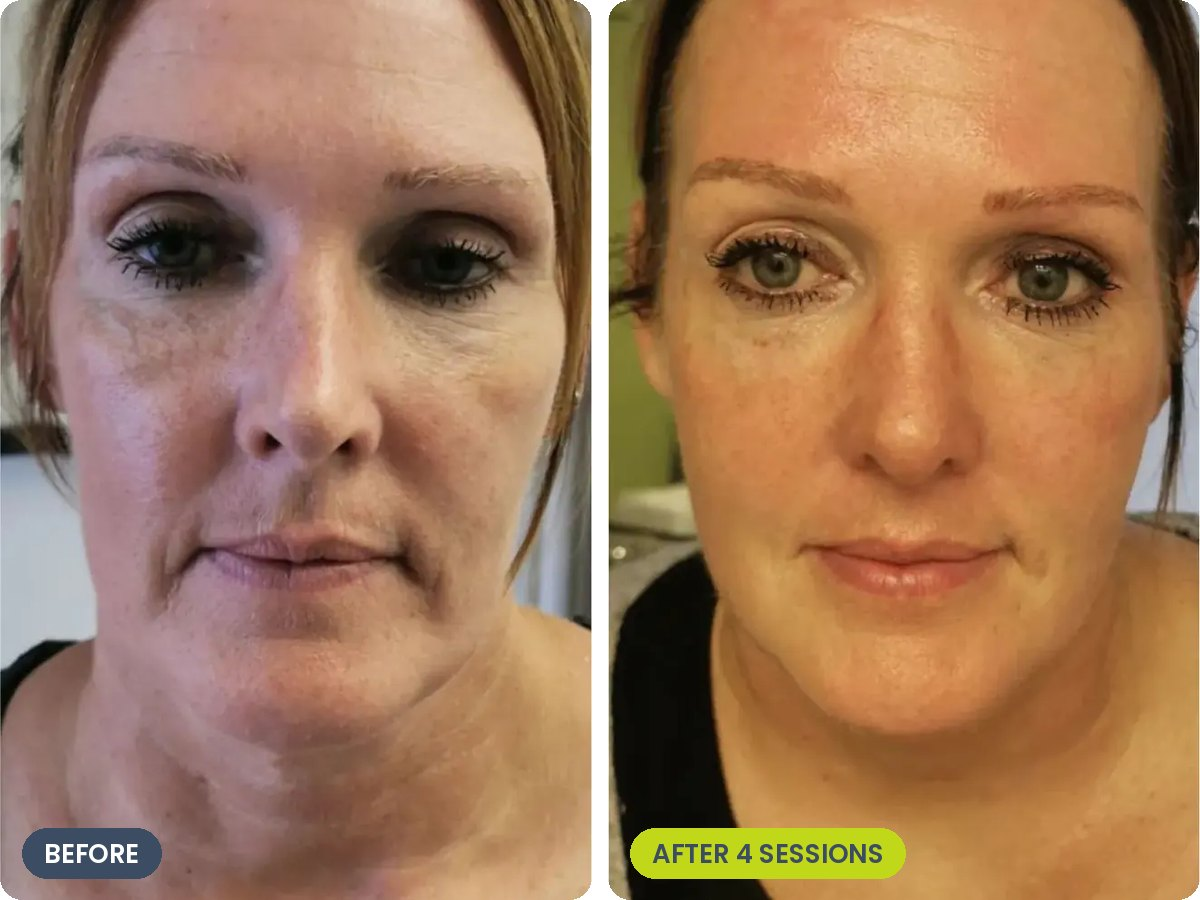
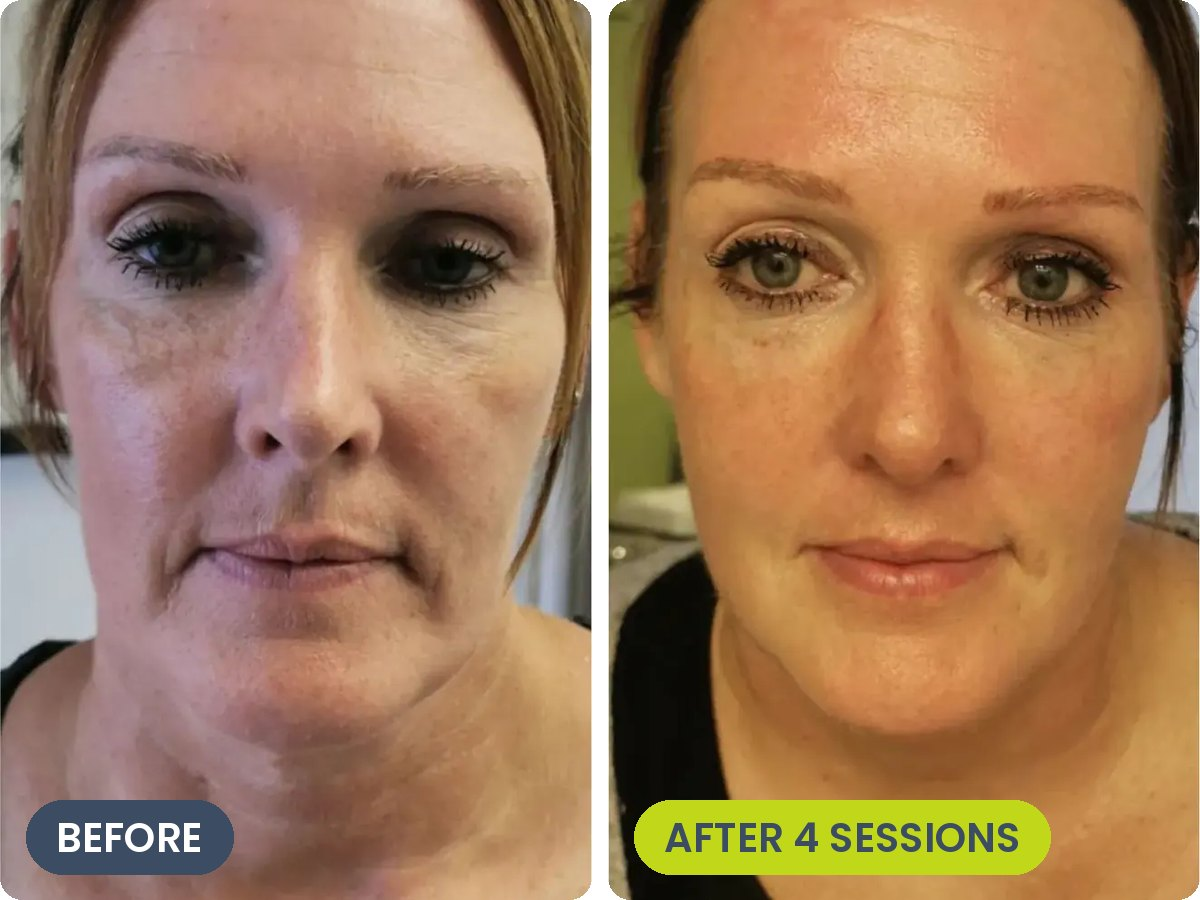
Edina T-Shape 2: larger B/A labels, price line, copy tweaks

Changed region(s): [[0.5242, 0.8711, 0.8942, 0.9956], [0.0, 0.8711, 0.2158, 0.9956]]

diff --git a/emails/december/edina-tshape-see-the-difference.html b/emails/december/edina-tshape-see-the-difference.html
@@ -36,7 +36,8 @@
 <p style="font-family:'Poppins',Arial,sans-serif;font-size:15px;line-height:1.7;color:#4a4a4a;margin:0 0 12px;">
 The holidays are busy. Give yourself an hour that’s just for you, with face and body sculpting that feels like a warm, deep massage.
 </p>
-<p style="font-family:'Poppins',Arial,sans-serif;font-size:17px;font-weight:600;color:#3C4C62;line-height:1.6;margin:8px 0 12px;">Starting at only $99, <span style="white-space:nowrap;">a special launch price</span> for a limited time.</p>
+<p style="font-family:'Poppins',Arial,sans-serif;font-size:20px;font-weight:600;color:#3C4C62;line-height:1.4;margin:8px 0 2px;">Starting at only $99</p>
+<p style="font-family:'Poppins',Arial,sans-serif;font-size:14px;color:#3C4C62;line-height:1.5;margin:0 0 12px;">A special launch price for a limited time.</p>
 <!-- cta --><table role="presentation" width="100%" cellpadding="0" cellspacing="0" style="width:100%;border-collapse:collapse;"><tr><td align="center" style="padding:16px 0 8px;text-align:center;">
 <!--[if mso]><table role="presentation" cellpadding="0" cellspacing="0" align="center"><tr><td align="center" bgcolor="#0E9EC1" style="padding:14px 36px;"><![endif]-->
 <a href="https://thedripbaredina.com/t-shape?utm_source=email&utm_medium=crm&utm_campaign=tshapeseethedifferencedec2026&utm_content=lead" target="_blank" style="display:inline-block;background-color:#0E9EC1;border-radius:28px;padding:14px 36px;font-family:'Bebas Neue',Arial,Helvetica,sans-serif;font-size:18px;line-height:1;color:#ffffff;text-decoration:none;letter-spacing:2px;white-space:nowrap;">BOOK MY SESSION</a>
@@ -88,7 +89,7 @@ Book Body Shaping, Face + Neck, or Lymphatic Drainage online. At your first sess
 <p style="font-family:'Poppins',Arial,sans-serif;color:#0E9EC1;font-size:11px;margin:0 0 6px;font-weight:600;letter-spacing:1px;text-transform:uppercase;">THIS SEASON</p>
 <h2 style="font-family:'Bebas Neue','Arial Narrow',Arial,sans-serif;font-weight:bold;font-size:22px;color:#3C4C62;margin:0 0 10px;letter-spacing:0.5px;">THE GIFT OF YOU</h2>
 <p style="font-family:'Poppins',Arial,sans-serif;font-size:14px;line-height:1.6;color:#4a4a4a;margin:0 0 4px;">
-Between parties, shopping, and family visits, it’s easy to put yourself last. Grab a friend, book back-to-back sessions, and make it a self-care date.
+Between parties, shopping, and family visits, it’s easy to put yourself last. Grab a friend and make it a self-care date.
 </p>
 <!-- cta --><table role="presentation" width="100%" cellpadding="0" cellspacing="0" style="width:100%;border-collapse:collapse;"><tr><td align="left" style="padding:16px 0 8px;text-align:left;">
 <!--[if mso]><table role="presentation" cellpadding="0" cellspacing="0" align="left"><tr><td align="center" bgcolor="#0E9EC1" style="padding:12px 28px;"><![endif]-->

diff --git a/emails/december/edina-tshape-launch-price.html b/emails/december/edina-tshape-launch-price.html
@@ -36,7 +36,8 @@
 <p style="font-family:'Poppins',Arial,sans-serif;font-size:15px;line-height:1.7;color:#4a4a4a;margin:0 0 12px;">
 T-Shape 2 face and body sculpting is now at The DRIPBaR Edina, and you can try it for less.
 </p>
-<p style="font-family:'Poppins',Arial,sans-serif;font-size:17px;font-weight:600;color:#3C4C62;line-height:1.6;margin:8px 0 12px;">Starting at only $99, <span style="white-space:nowrap;">a special launch price</span> for a limited time.</p>
+<p style="font-family:'Poppins',Arial,sans-serif;font-size:20px;font-weight:600;color:#3C4C62;line-height:1.4;margin:8px 0 2px;">Starting at only $99</p>
+<p style="font-family:'Poppins',Arial,sans-serif;font-size:14px;color:#3C4C62;line-height:1.5;margin:0 0 12px;">A special launch price for a limited time.</p>
 <!-- cta --><table role="presentation" width="100%" cellpadding="0" cellspacing="0" style="width:100%;border-collapse:collapse;"><tr><td align="center" style="padding:16px 0 8px;text-align:center;">
 <!--[if mso]><table role="presentation" cellpadding="0" cellspacing="0" align="center"><tr><td align="center" bgcolor="#0E9EC1" style="padding:14px 36px;"><![endif]-->
 <a href="https://thedripbaredina.com/t-shape?utm_source=email&utm_medium=crm&utm_campaign=tshapelaunchpricedec2026&utm_content=lead" target="_blank" style="display:inline-block;background-color:#0E9EC1;border-radius:28px;padding:14px 36px;font-family:'Bebas Neue',Arial,Helvetica,sans-serif;font-size:18px;line-height:1;color:#ffffff;text-decoration:none;letter-spacing:2px;white-space:nowrap;">BOOK EARLY</a>
@@ -61,7 +62,7 @@ T-Shape 2 face and body sculpting is now at The DRIPBaR Edina, and you can try i
 <p style="font-family:'Poppins',Arial,sans-serif;color:#8aa112;font-size:11px;margin:0 0 6px;font-weight:600;letter-spacing:1px;text-transform:uppercase;">PICK YOUR SESSION</p>
 <h2 style="font-family:'Bebas Neue','Arial Narrow',Arial,sans-serif;font-weight:bold;font-size:22px;color:#3C4C62;margin:0 0 10px;letter-spacing:0.5px;">THREE WAYS TO START</h2>
 <p style="font-family:'Poppins',Arial,sans-serif;font-size:14px;line-height:1.6;color:#4a4a4a;margin:0 0 4px;">
-Every session starts at only $99 for a limited time. Choose the one that fits your goals.
+Launch pricing starts at only $99 for a limited time. Choose the session that fits your goals.
 </p>
 <table role="presentation" width="100%" cellpadding="0" cellspacing="0" style="width:100%;border-collapse:collapse;"><tr><td style="padding:16px 0 0;">
 <table role="presentation" width="100%" cellpadding="0" cellspacing="0" style="width:100%;border-collapse:collapse;border-top:1px solid #e8e8e8;">

diff --git a/emails/december/edina-tshape-weight-loss.html b/emails/december/edina-tshape-weight-loss.html
@@ -36,7 +36,8 @@
 <p style="font-family:'Poppins',Arial,sans-serif;font-size:15px;line-height:1.7;color:#4a4a4a;margin:0 0 12px;">
 Losing weight with GLP-1 peptides? Your skin may need a little help keeping up. T-Shape 2 is designed to help firm skin and improve the appearance of muscle tone as your body changes.
 </p>
-<p style="font-family:'Poppins',Arial,sans-serif;font-size:17px;font-weight:600;color:#3C4C62;line-height:1.6;margin:8px 0 12px;">Starting at only $99, <span style="white-space:nowrap;">a special launch price</span> for a limited time.</p>
+<p style="font-family:'Poppins',Arial,sans-serif;font-size:20px;font-weight:600;color:#3C4C62;line-height:1.4;margin:8px 0 2px;">Starting at only $99</p>
+<p style="font-family:'Poppins',Arial,sans-serif;font-size:14px;color:#3C4C62;line-height:1.5;margin:0 0 12px;">A special launch price for a limited time.</p>
 <!-- cta --><table role="presentation" width="100%" cellpadding="0" cellspacing="0" style="width:100%;border-collapse:collapse;"><tr><td align="center" style="padding:16px 0 8px;text-align:center;">
 <!--[if mso]><table role="presentation" cellpadding="0" cellspacing="0" align="center"><tr><td align="center" bgcolor="#0E9EC1" style="padding:14px 36px;"><![endif]-->
 <a href="https://thedripbaredina.com/t-shape?utm_source=email&utm_medium=crm&utm_campaign=tshapeweightlossdec2026&utm_content=lead" target="_blank" style="display:inline-block;background-color:#0E9EC1;border-radius:28px;padding:14px 36px;font-family:'Bebas Neue',Arial,Helvetica,sans-serif;font-size:18px;line-height:1;color:#ffffff;text-decoration:none;letter-spacing:2px;white-space:nowrap;">SEE HOW IT HELPS</a>

diff --git a/emails/december/edina-tshape-how-it-works.html b/emails/december/edina-tshape-how-it-works.html
@@ -36,7 +36,8 @@
 <p style="font-family:'Poppins',Arial,sans-serif;font-size:15px;line-height:1.7;color:#4a4a4a;margin:0 0 12px;">
 Meet T-Shape 2, face and body sculpting that feels like a warm, deep massage. It’s now at The DRIPBaR Edina.
 </p>
-<p style="font-family:'Poppins',Arial,sans-serif;font-size:17px;font-weight:600;color:#3C4C62;line-height:1.6;margin:8px 0 12px;">Starting at only $99, <span style="white-space:nowrap;">a special launch price</span> for a limited time.</p>
+<p style="font-family:'Poppins',Arial,sans-serif;font-size:20px;font-weight:600;color:#3C4C62;line-height:1.4;margin:8px 0 2px;">Starting at only $99</p>
+<p style="font-family:'Poppins',Arial,sans-serif;font-size:14px;color:#3C4C62;line-height:1.5;margin:0 0 12px;">A special launch price for a limited time.</p>
 <!-- cta --><table role="presentation" width="100%" cellpadding="0" cellspacing="0" style="width:100%;border-collapse:collapse;"><tr><td align="center" style="padding:16px 0 8px;text-align:center;">
 <!--[if mso]><table role="presentation" cellpadding="0" cellspacing="0" align="center"><tr><td align="center" bgcolor="#0E9EC1" style="padding:14px 36px;"><![endif]-->
 <a href="https://thedripbaredina.com/t-shape?utm_source=email&utm_medium=crm&utm_campaign=tshapehowitworksdec2026&utm_content=lead" target="_blank" style="display:inline-block;background-color:#0E9EC1;border-radius:28px;padding:14px 36px;font-family:'Bebas Neue',Arial,Helvetica,sans-serif;font-size:18px;line-height:1;color:#ffffff;text-decoration:none;letter-spacing:2px;white-space:nowrap;">SEE HOW IT WORKS</a>
